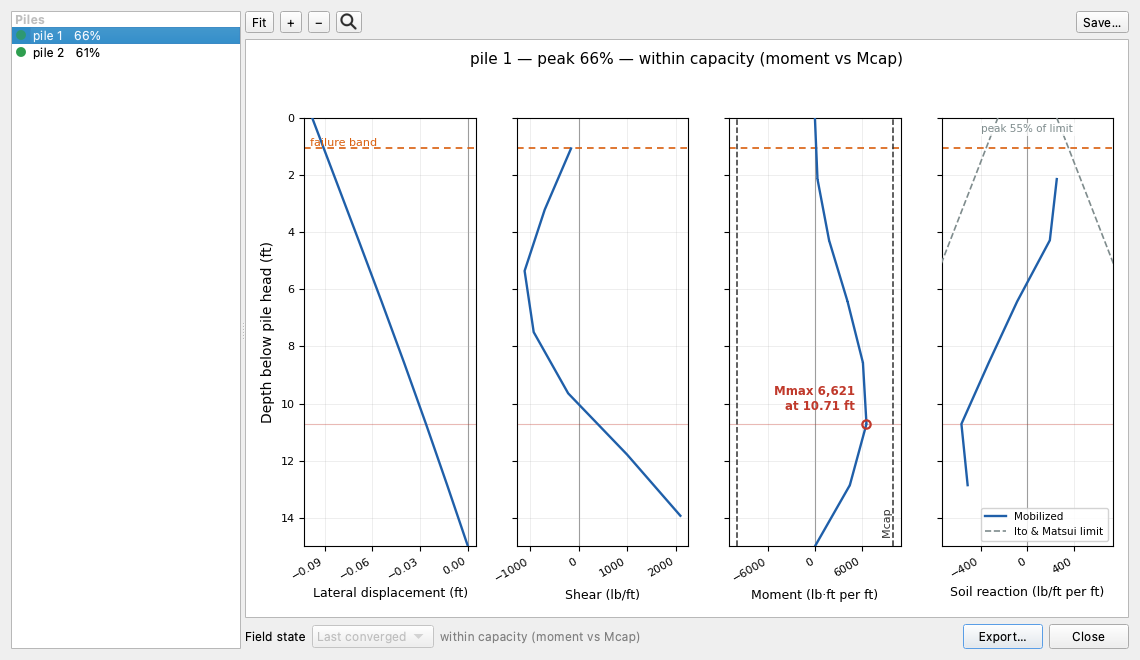
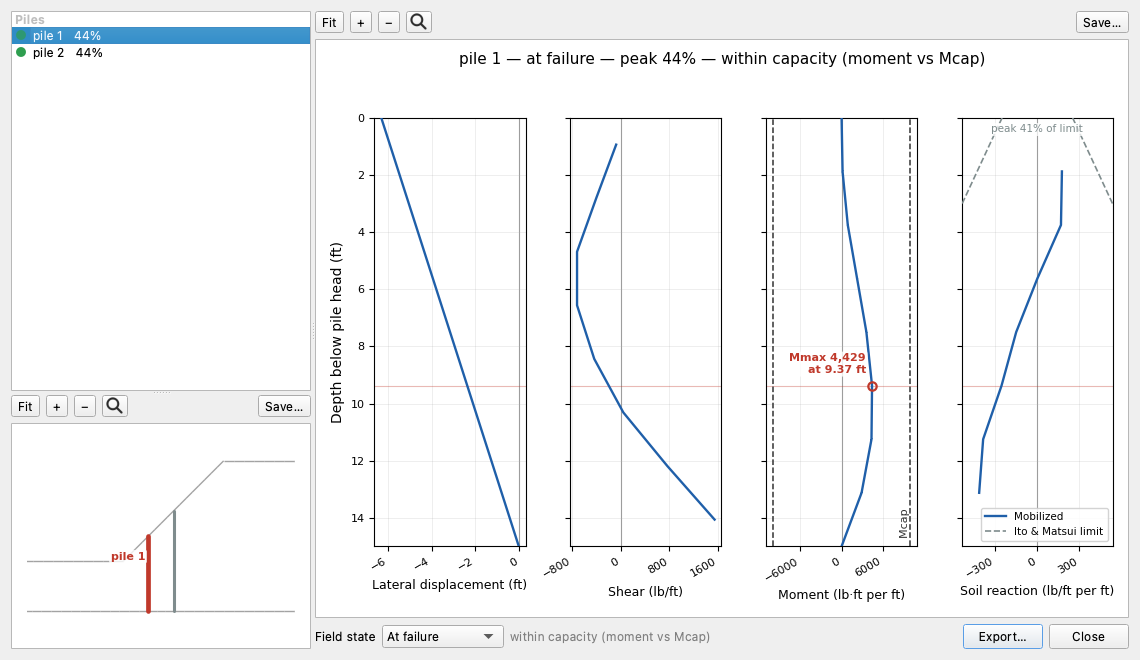
docs(fem,studio): the member details pages describe the panel that ships, and its screenshots are the runs the pages report
reinforcement.md and piles.md described a peak annotated at a point, said nothing
about the map under the member list, and named the band on every figure a failure
band. The pages now describe the stretch a line usually holds its greatest
utilization over, the sample inside a stretch that can stand below it, the inset
that places a member on the slope, the band as the failure band or the shear
strain band depending on what the run reached, and the soil-reaction note that
says where the limiting envelope is when it does not land on the panel.
studio/analysis.md gains the inset in its account of the 1D Details panel.

capture_1d_details.py reads each sample's committed companions instead of solving
it at a fixed strength reduction: the screenshot is then the run the sample page
reports, at the mechanism it developed, which is where the members hold capacity
over a stretch and where the failure band exists at all. Regenerated: both show
the inset with the selected member named, the reinforcement panel shows Line 4 at
100% of capacity from 1.00 to 19.00 ft except 5.00 with the thickened run broken
at the hole, and the pile panel shows the limit envelope in frame with its legend.

The pile figure's alt text called pile 1 the upper pile; its head is at (5, 5) and
pile 2's at (10, 10).

diff --git a/tools/capture_1d_details.py b/tools/capture_1d_details.py
@@ -16,10 +16,18 @@
 
 Offscreen, like ``tools/capture_studio_screenshots.py``: the same
 ``QT_QPA_PLATFORM=offscreen`` + show/settle/grab sequence, writing PNGs the
-Markdown embeds directly. It lives apart from that script only because it solves
-two FEM models first, which the Studio capture script never does; the capture
-helpers here are deliberately identical to it so the two can be merged into one
-script once the solve step is worth carrying there.
+Markdown embeds directly. It lives apart from that script only because it loads
+two solved FEM models first, which the Studio capture script never does; the
+capture helpers here are deliberately identical to it so the two can be merged
+into one script once that step is worth carrying there.
+
+Each sample is read back from the companions committed beside it
+(``tools/make_fem_docs_sidecars.py`` writes them from the page's own tag), which
+is the run the sample page reports and the mechanism it reports it at. It used to
+solve each model here at a fixed strength reduction instead, which reached the
+right factor and captured no mechanism at all — so the panel was grabbed on a
+converged field, without the failure band or the stretches of capacity the
+at-failure state is where the members hold.
 
     python tools/capture_1d_details.py
 """
@@ -48,12 +56,12 @@ FILES_DIR = os.path.join(REPO_ROOT, "docs", "fem", "files")
 
 _app = QApplication.instance() or QApplication([])
 
-# Each sample is solved at its own SSRM factor of safety — the state its page
-# already documents and plots — so the numbers in the screenshot match the ones
-# the rest of the sample page reports.
+# The member each sample's screenshot opens on, and the size the panel is grabbed
+# at. The run itself is whatever ships beside the model, so the numbers in the
+# screenshot are the ones the rest of the sample page reports.
 CASES = [
-    ("xslope_reinforce_fem", 1.49, "Line 4", "reinforce_fem_details.png", (1140, 660)),
-    ("xslope_piles_fem", 1.36, None, "piles_fem_details.png", (1140, 660)),
+    ("xslope_reinforce_fem", "Line 4", "reinforce_fem_details.png", (1140, 660)),
+    ("xslope_piles_fem", None, "piles_fem_details.png", (1140, 660)),
 ]
 
 
@@ -74,22 +82,27 @@ def _grab(dlg, name):
     return out
 
 
-def _solve(stem, F):
-    from xslope.fem import build_fem_data, solve_fem
+def _shipped(stem):
+    """The solved run committed beside one sample, as Studio's own bundle."""
     from xslope.fileio import load_slope_data
+    from xslope.report import solutions_from_sidecars
     path = os.path.join(FILES_DIR, f"{stem}.xlsx")
     slope_data = load_slope_data(path)
-    fem_data = build_fem_data(slope_data, slope_data.get("mesh"))
-    solution = solve_fem(fem_data, F=F, debug_level=0)
-    return path, slope_data, fem_data, solution
+    bundle = solutions_from_sidecars(path, slope_data, None).get("fem")
+    if not bundle:
+        raise RuntimeError(f"{stem}: no solved run beside the model — run "
+                           f"tools/make_fem_docs_sidecars.py first")
+    return path, slope_data, bundle
 
 
-def capture_details(stem, F, select_label, name, size):
+def capture_details(stem, select_label, name, size):
     from PySide6.QtCore import Qt
     from studio.fem_details_dialog import FemDetailsDialog
 
-    path, slope_data, fem_data, solution = _solve(stem, F)
-    dlg = FemDetailsDialog(fem_data, solution, slope_data, model_path=path)
+    path, slope_data, bundle = _shipped(stem)
+    dlg = FemDetailsDialog(bundle["fem_data"], bundle["solution"], slope_data,
+                           model_path=path,
+                           failure_solution=bundle.get("failure_solution"))
     dlg.resize(*size)
     if select_label:
         for row in range(dlg.list.count()):
@@ -102,8 +115,8 @@ def capture_details(stem, F, select_label, name, size):
 
 def main():
     os.makedirs(OUT_DIR, exist_ok=True)
-    for stem, F, label, name, size in CASES:
-        out = capture_details(stem, F, label, name, size)
+    for stem, label, name, size in CASES:
+        out = capture_details(stem, label, name, size)
         print(f"wrote {os.path.relpath(out, REPO_ROOT)}")
 
 

diff --git a/docs/fem/reinforcement.md b/docs/fem/reinforcement.md
@@ -414,8 +414,9 @@ version of XSLOPE.
 The FEM results view colors each reinforcement element by the force it carries, which shows at a glance which
 lines are working hardest. To read one line along its length, use the **1D Details…** button on that view's
 toolbar. It opens a panel listing every reinforcement line and pile in the model, each with a utilization badge,
-and draws the selected member's profiles beside the list. The button is dimmed for a model with no reinforcement
-lines and no piles.
+and draws the selected member's profiles beside the list. Under the list is a map of the section with the selected
+member picked out, so a name in a list is a place on the slope. The button is dimmed for a model with no
+reinforcement lines and no piles.
 
 ![Reinforcement detail for Line 4 of the reinforcement sample](images/reinforce_fem_details.png){width=1000}
 
@@ -425,9 +426,17 @@ developing from each free end over its pullout length $L_p$, the tensile plateau
 the step to the end anchorage capacity $T_{end}$ where one is declared. That envelope is the same expression the
 solver evaluates at each element centroid to set $T_{allow}$, so the curve and the element capacities cannot
 disagree. Where $T_{res}$ is filled in, the residual capacity is drawn as a dotted step, and elements that have
-softened to it are marked; elements that have pulled out are marked at zero force. The peak point is annotated
-with its force and its fraction of capacity, and the extent of the failure band along the line — taken from the
-viscoplastic shear strain of the captured mechanism — is shaded behind the profile.
+softened to it are marked; elements that have pulled out are marked at zero force.
+
+The greatest utilization along a line is usually held over a stretch rather than at a point, the force being capped
+by a flat envelope. Where it is a point, that point is ringed and annotated with its force and its fraction of
+capacity. Where it is a stretch, every sample on the stretch is ringed, the run of curve between them is thickened,
+and the annotation gives the extent instead — and a stretch with a sample inside it that stands below the rest is
+drawn as the runs it really is, with the annotation excepting that sample by position.
+
+A band is shaded behind the profile where the viscoplastic shear strain concentrates along the line. On a run that
+captured a mechanism it is the failure band and is labelled as one; on a run that converged and reached no failure
+it is labelled a shear strain band, which is what it is. A line the concentration does not reach carries no band.
 
 Beneath the force profile is the bond transfer rate $dT/ds$: the force the ground hands the bar per unit of its
 length, which is the gradient of the profile above it. There is no companion slip series because the formulation
@@ -440,7 +449,7 @@ A **Field state** control at the foot of the panel selects which field the profi
 mechanism an SSRM run captured, or the last converged solution — and is the same switch, with the same default, as
 the one on the results view, so the two views can be set to the same instant of the analysis. It is dimmed for a
 run that captured no mechanism, where there is only one field to read, and neither the capacity envelope nor the
-shaded failure band moves with it.
+shaded band moves with it.
 
 **Export** writes the current view as a PNG and its plotted series as a CSV named from the model, the line and the
 field state, with that state also recorded in the CSV's header, so the picture and the numbers behind it stay
@@ -448,8 +457,8 @@ together. The panel is non-modal and reads the solution it was opened
 with, so it can stay open beside the results view; it works the same on a solution reloaded from its saved
 sidecar files as on a fresh solve.
 
-The screenshot above is the reinforcement sample solved at its own factor of safety, $F = 1.49$ (see
-[FEM sample problems](samples.md)).
+The screenshot above is the reinforcement sample's own strength reduction run, $FS = 1.49$, read at the mechanism
+it developed (see [FEM sample problems](samples.md)).
 
 ## References
 

diff --git a/docs/fem/piles.md b/docs/fem/piles.md
@@ -232,10 +232,11 @@ The LEM-specific columns ($H$, $\theta_p$) are not used for FEM analysis. See [L
 The FEM results view colors pile elements by the shear they carry. To read one pile down its length, use the
 **1D Details…** button on that view's toolbar. It opens a panel listing every pile and reinforcement line in the
 model, each with a utilization badge, and draws the selected member's profiles beside the list. Piles whose rows
-share a label are numbered so they can be told apart. The button is dimmed for a model with no piles and no
-reinforcement lines.
+share a label are numbered so they can be told apart. Under the list is a map of the section with the selected
+pile picked out, so a name in a list is a place on the slope. The button is dimmed for a model with no piles and
+no reinforcement lines.
 
-![Pile detail for the upper pile of the piles sample](images/piles_fem_details.png){width=1000}
+![Pile detail for the lower pile of the piles sample](images/piles_fem_details.png){width=1000}
 
 Four panels share one depth axis, pile head at the top:
 
@@ -250,27 +251,33 @@ Four panels share one depth axis, pile head at the top:
   $p(z) = (c A_1 + \gamma z A_2)/S$ is drawn dashed beside it, from the same coefficients the LEM uses for its
   passive-pile force (see [LEM Piles](../lem/piles.md)), and the peak fraction of that limit is stated in the
   panel. The limiting resistance grows with depth and is often far above anything mobilized, in which case the
-  panel is scaled to the mobilized profile and the limit simply runs off the sides.
+  panel is scaled to the mobilized profile and the limit runs off the sides. For a pile far enough inside its
+  working range that the envelope does not reach the panel at all, it is not drawn, there is no legend, and the
+  note that states the peak fraction says how far off the envelope is.
 
 Capacity lines appear only where the model declares a capacity: $V_{\text{cap}}$ and $M_{\text{cap}}$ are inputs,
 and no substitute is computed from an assumed section — the pile inputs carry force capacities, not section
 moduli. Where the model does supply $D$ and $S$ but no structural capacities, the utilization badge falls back to
 the mobilized soil reaction against the Ito & Matsui limit; with neither, the badge stays neutral rather than
-reporting a ratio the model does not support. The depth at which the failure band crosses the pile — taken from
-the viscoplastic shear strain of the captured mechanism — is ruled across all four panels.
+reporting a ratio the model does not support.
+
+The depth at which the viscoplastic shear strain concentrates across the pile is ruled across all four panels. On
+a run that captured a mechanism it is the failure band and is labelled as one; on a run that converged and reached
+no failure it is labelled a shear strain band, which is what it is. A pile the concentration does not reach carries
+no rule.
 
 A **Field state** control at the foot of the panel selects which field the displacement, shear and moment profiles
 are read from — the at-failure mechanism an SSRM run captured, or the last converged solution — and is the same
 switch, with the same default, as the one on the results view. It is dimmed for a run that captured no mechanism,
-and the limiting-resistance envelope and the failure-band rule are the same in both states.
+and the limiting-resistance envelope and the band rule are the same in both states.
 
 **Export** writes the current view as a PNG and its plotted series as a CSV named from the model, the pile and the
 field state, with that state also recorded in the CSV's header.
 The panel is non-modal and reads the solution it was opened with, and works the same on a solution reloaded from
 its saved sidecar files as on a fresh solve.
 
-The screenshot above is the piles sample solved at its own factor of safety, $F = 1.36$ (see
-[FEM sample problems](samples.md)).
+The screenshot above is the piles sample's own strength reduction run, $FS = 1.36$, read at the mechanism it
+developed (see [FEM sample problems](samples.md)).
 
 ## References
 

diff --git a/docs/studio/analysis.md b/docs/studio/analysis.md
@@ -617,7 +617,10 @@ The FEM · Results toolbar also carries **1D Details…**, which opens a non-mod
 listing every reinforcement line and pile in the model with a utilization badge, and
 plotting the selected member's profiles along its own length: mobilized axial force
 against its capacity envelope for a reinforcement line, and lateral displacement,
-shear, moment, and mobilized soil reaction against depth for a pile. Its own **Field
+shear, moment, and mobilized soil reaction against depth for a pile. Under the list is
+a map of the section with the selected member picked out and named, so a row of the list
+is a place on the slope; it is the same drawing the report prints above its member
+details. Its own **Field
 state** control switches those profiles between the at-failure mechanism and the last
 converged solution, exactly as the one on the results view does. **Export** in that
 panel writes the current view as a PNG and its plotted series as a CSV, both named for
